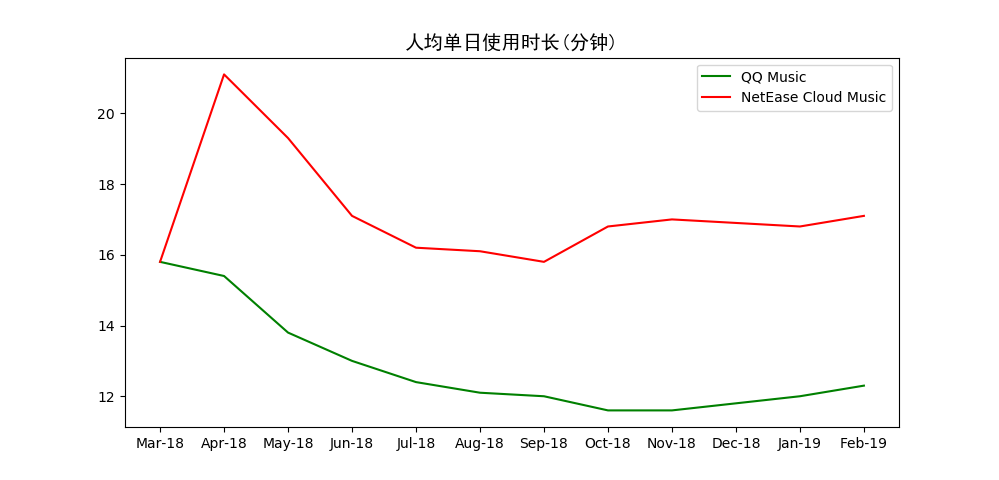
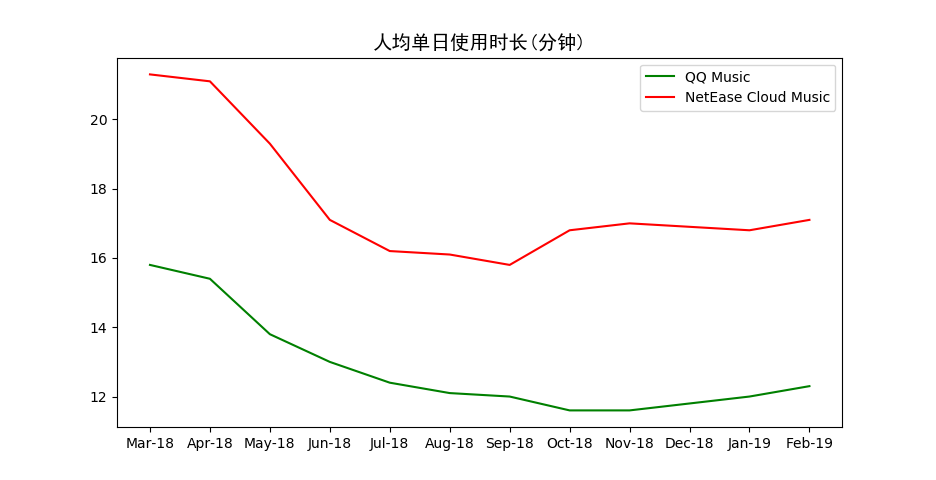
conclusion

diff --git a/code/0.py b/code/0.py
@@ -6,7 +6,7 @@ font = FontProperties(fname=r"C:\Windows\Fonts\simhei.ttf", size=14)
 date = np.array(['Mar-18','Apr-18','May-18','Jun-18','Jul-18','Aug-18','Sep-18','Oct-18','Nov-18','Dec-18','Jan-19','Feb-19']) 
 
 def plt_active():
-	active_ne = np.array([4898.80,3234.60,3159.30,2902.60,2762.40,2883.50,2874.00,3395.00,3176.60,2702.10,2374.20,2469.80])
+	active_ne = np.array([2994.20,3234.60,3159.30,2902.60,2762.40,2883.50,2874.00,3395.00,3176.60,2702.10,2374.20,2469.80])
 	active_qq = np.array([4898.80,5348.10,5188.50,4907.90,4838.70,4941.50,4681.40,5562.00,5132.20,4432.00,4191.40,4697.50])
 	plt.plot(date, active_qq, label='QQ Music',c='g')
 	plt.plot(date, active_ne, label='NetEase Cloud Music',c='r')
@@ -33,7 +33,7 @@ def plt_on():
 	plt.show()
 
 def plt_use():
-	ret_ne = np.array([15.8,21.1,19.3,17.1,16.2,16.1,15.8,16.8,17,16.9,16.8,17.1])
+	ret_ne = np.array([21.3,21.1,19.3,17.1,16.2,16.1,15.8,16.8,17,16.9,16.8,17.1])
 	ret_qq = np.array([15.8,15.4,13.8,13,12.4,12.1,12,11.6,11.6,11.8,12,12.3])
 	plt.plot(date, ret_qq, label='QQ Music',c='g')
 	plt.plot(date, ret_ne, label='NetEase Cloud Music',c='r')
@@ -42,5 +42,6 @@ def plt_use():
 	plt.show()
 
 
+
 if __name__ == '__main__':	
-	
+	plt_use();	
